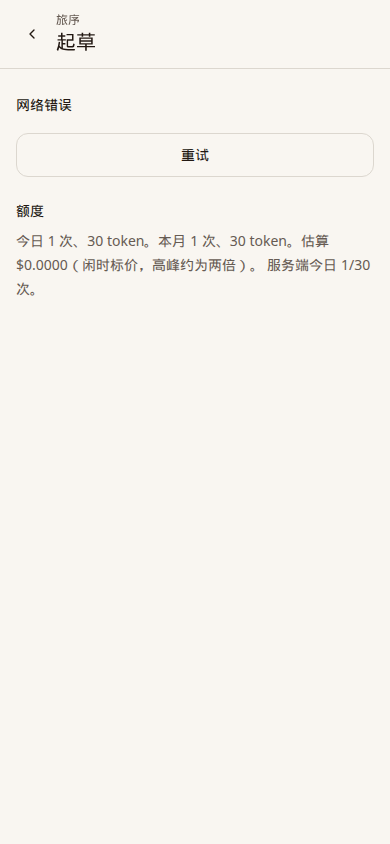
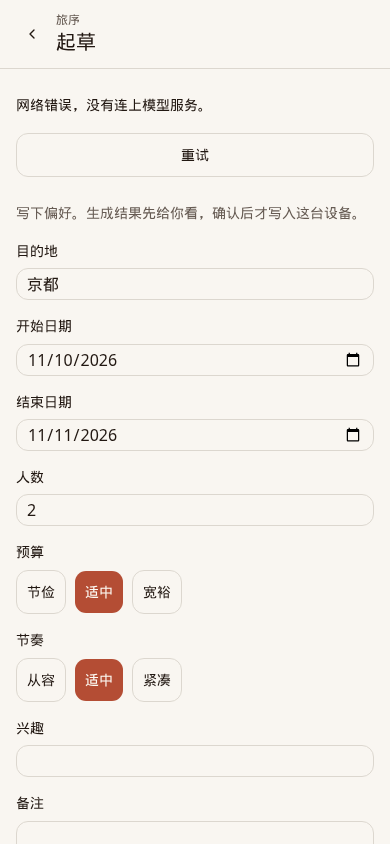
fix: call Worker fetch without an illegal this
DeepSeek requests were invoked as a method and threw before the network.
Bind fetch to the global object, retry transport failures up to three
times, and keep the preference form visible when generation fails.

diff --git a/worker/ai/deepseek.ts b/worker/ai/deepseek.ts
@@ -1,4 +1,5 @@
 import { AI_MODELS, type AiModel } from "../../shared/ai-schema";
+import { redactForLog } from "../redact";
 
 export type TokenUsage = {
   promptTokens: number;
@@ -61,21 +62,35 @@ export function readUsage(value: unknown): TokenUsage {
 
 function mapStatus(status: number): Pick<Extract<Completion, { ok: false }>, "code" | "message" | "retryable"> {
   if (status === 401) {
-    return { code: "upstream_auth", message: "模型服务没有接受密钥", retryable: false };
+    return { code: "upstream_auth", message: "模型服务没有接受密钥。", retryable: false };
   }
   if (status === 402) {
-    return { code: "upstream_balance", message: "模型账户余额不足", retryable: false };
+    return { code: "upstream_balance", message: "模型账户余额不足。", retryable: false };
   }
   if (status === 429) {
-    return { code: "rate_limited", message: "模型服务请求过于频繁", retryable: true };
+    return { code: "rate_limited", message: "请求过于频繁。", retryable: true };
   }
   if (status === 400 || status === 422) {
-    return { code: "upstream_rejected", message: "模型服务拒绝了这次请求", retryable: false };
+    return { code: "upstream_rejected", message: "模型服务拒绝了这次请求。", retryable: false };
   }
   if (status >= 500) {
-    return { code: "upstream_unavailable", message: "模型服务暂时不可用", retryable: true };
+    return { code: "upstream_unavailable", message: "模型服务暂时不可用。", retryable: true };
   }
-  return { code: "upstream_rejected", message: "模型服务拒绝了这次请求", retryable: false };
+  return { code: "upstream_rejected", message: "模型服务拒绝了这次请求。", retryable: false };
+}
+
+function logFetchError(error: unknown) {
+  const name = error instanceof Error ? error.name : "Error";
+  const message = sanitizeSecrets(error instanceof Error ? error.message : "unknown").slice(0, 200);
+  console.log(
+    JSON.stringify(
+      redactForLog({
+        source: "deepseek",
+        errorName: name,
+        errorMessage: message,
+      }),
+    ),
+  );
 }
 
 export async function completeJson(input: {
@@ -89,7 +104,9 @@ export async function completeJson(input: {
   const url = `${input.baseUrl.replace(/\/$/, "")}/chat/completions`;
   let response: Response;
   try {
-    response = await input.fetchImpl(url, {
+    // Workers throw Illegal invocation if fetch is called as a method of another object.
+    const fetchImpl = input.fetchImpl;
+    response = await fetchImpl.call(globalThis, url, {
       method: "POST",
       signal: input.signal,
       headers: {
@@ -100,6 +117,7 @@ export async function completeJson(input: {
         model: input.model,
         messages: input.messages,
         response_format: { type: "json_object" },
+        // Docs: omitting thinking enables reasoning. disabled is the non-thinking mode.
         thinking: { type: "disabled" },
         temperature: 0.4,
         max_tokens: 8192,
@@ -107,13 +125,14 @@ export async function completeJson(input: {
       }),
     });
   } catch (error) {
+    logFetchError(error);
     const aborted = error instanceof Error && error.name === "AbortError";
     return {
       ok: false,
       status: aborted ? 504 : 0,
       retryable: true,
       code: aborted ? "timeout" : "network",
-      message: aborted ? "生成超时" : "网络错误",
+      message: aborted ? "生成超时，模型没有在限定时间内返回。" : "网络错误，没有连上模型服务。",
     };
   }
 
@@ -136,13 +155,17 @@ export async function completeJson(input: {
   }
   const body = payload as {
     model?: unknown;
-    choices?: { message?: { content?: unknown }; finish_reason?: unknown }[];
+    choices?: {
+      message?: { content?: unknown; reasoning_content?: unknown };
+      finish_reason?: unknown;
+    }[];
     usage?: unknown;
   };
-  const content = body.choices?.[0]?.message?.content;
+  const message = body.choices?.[0]?.message;
+  const content = typeof message?.content === "string" ? message.content : "";
   return {
     ok: true,
-    content: typeof content === "string" ? content : "",
+    content,
     finishReason: typeof body.choices?.[0]?.finish_reason === "string"
       ? body.choices[0].finish_reason
       : "",

diff --git a/src/components/plan-screen.tsx b/src/components/plan-screen.tsx
@@ -52,8 +52,8 @@ const failureCopy: Record<AiFailure, string> = {
   invalid_output: "草稿没有通过校验。",
   rate_limited: "请求过于频繁。",
   quota_exceeded: "今日额度已用完。",
-  timeout: "生成超时。",
-  network: "网络错误。",
+  timeout: "生成超时，模型没有在限定时间内返回。",
+  network: "网络错误，没有连上模型服务。",
   upstream_auth: "模型服务没有接受密钥。",
   upstream_balance: "模型账户余额不足。",
   upstream_unavailable: "模型服务暂时不可用。",
@@ -137,6 +137,15 @@ export function PlanScreen({
   onSave: () => void;
 }) {
   const reduce = useReducedMotion();
+  const failure =
+    phase.kind === "form" ||
+    phase.kind === "generating" ||
+    phase.kind === "retrying" ||
+    phase.kind === "preview" ||
+    phase.kind === "saving"
+      ? null
+      : phase;
+  const showForm = phase.kind === "form" || failure !== null;
   const errors = phase.kind === "form" ? phase.errors : {};
   return (
     <motion.div
@@ -145,7 +154,16 @@ export function PlanScreen({
       animate={{ opacity: 1, transform: "translateY(0px)" }}
       transition={{ duration: reduce ? 0 : 0.2, ease: [0.22, 1, 0.36, 1] }}
     >
-      {phase.kind === "form" ? (
+      {failure ? (
+        <div className="flex flex-col gap-4" role="status">
+          <p className="text-sm leading-6">{failureCopy[failure.kind]}</p>
+          <Button type="button" variant="outline" className="h-11" onClick={onRetry}>
+            重试
+          </Button>
+        </div>
+      ) : null}
+
+      {showForm ? (
         <form
           className="flex flex-col gap-4"
           onSubmit={(event) => {
@@ -247,7 +265,7 @@ export function PlanScreen({
             </ul>
           ) : null}
           <p className="text-sm text-muted-foreground">
-            {phase.usage.attempts} 次尝试，{phase.usage.totalTokens} token，估算{" "}
+            尝试 {phase.usage.attempts} 次，共 {phase.usage.totalTokens} 个令牌，按美元估算{" "}
             {formatUsd(estimateUsd(phase.usage))}。
           </p>
           <TripTimeline days={toTimeline({ ...phase.draft, title })} />
@@ -269,19 +287,6 @@ export function PlanScreen({
         <p role="status" className="text-sm">
           正在保存
         </p>
-      ) : null}
-
-      {phase.kind !== "form" &&
-      phase.kind !== "generating" &&
-      phase.kind !== "retrying" &&
-      phase.kind !== "preview" &&
-      phase.kind !== "saving" ? (
-        <div className="flex flex-col gap-4" role="status">
-          <p className="text-sm leading-6">{phase.message || failureCopy[phase.kind]}</p>
-          <Button type="button" variant="outline" className="h-11" onClick={onRetry}>
-            重试
-          </Button>
-        </div>
       ) : null}
     </motion.div>
   );

diff --git a/worker/ai/generate.ts b/worker/ai/generate.ts
@@ -115,7 +115,8 @@ export async function generateItinerary(input: {
   const model = input.model;
   const started = (input.now ?? Date.now)();
   const timeoutMs = input.timeoutMs ?? 25_000;
-  const fetchImpl = input.fetchImpl ?? fetch;
+  const providedFetch = input.fetchImpl ?? fetch;
+  const fetchImpl: typeof fetch = (request, init) => providedFetch.call(globalThis, request, init);
   const sleep = input.sleep ?? ((ms: number) => new Promise((resolve) => setTimeout(resolve, ms)));
   const now = input.now ?? Date.now;
   if (!input.apiKey.trim()) {
@@ -148,7 +149,6 @@ export async function generateItinerary(input: {
   let charged = false;
   let attempts = 0;
   let repairs = 0;
-  let upstreamRetries = 0;
 
   while (attempts < 3) {
     if (now() - started >= timeoutMs) {
@@ -172,25 +172,10 @@ export async function generateItinerary(input: {
       signal,
     });
     if (!completion.ok) {
-      if (completion.code === "network" || completion.code === "timeout") {
-        if (upstreamRetries >= 2 || attempts >= 3) {
-          return {
-            ok: false,
-            error: completion.code,
-            message: completion.message,
-            usage: { ...tokens, model, latencyMs: now() - started, attempts },
-            charged,
-          };
-        }
-        upstreamRetries += 1;
-        await sleep(400 * 2 ** (upstreamRetries - 1));
-        attempts -= 1;
-        continue;
-      }
-      charged = true;
-      if (completion.retryable && upstreamRetries < 2 && attempts < 3) {
-        upstreamRetries += 1;
-        await sleep(400 * 2 ** (upstreamRetries - 1));
+      const reachedUpstream = completion.code !== "network" && completion.code !== "timeout";
+      if (reachedUpstream) charged = true;
+      if (completion.retryable && attempts < 3) {
+        await sleep(400 * 2 ** (attempts - 1));
         continue;
       }
       return {

diff --git a/worker/ai/http.ts b/worker/ai/http.ts
@@ -1,5 +1,6 @@
 import { issueList, preferenceSchema, shanghaiDay } from "../../shared/ai-schema";
-import { isAiModel } from "./deepseek";
+import { isAiModel, sanitizeSecrets } from "./deepseek";
+import { redactForLog } from "../redact";
 import { generateItinerary } from "./generate";
 import { DEFAULT_REQUEST_CAP, DEFAULT_TOKEN_CAP, parseCap } from "./quota";
 
@@ -72,7 +73,7 @@ export function isAiRoute(pathname: string, method: string) {
 export async function handleAiRequest(
   request: Request,
   env: AiEnv,
-  fetchImpl: typeof fetch = fetch,
+  fetchImpl: typeof fetch = (input, init) => fetch(input, init),
 ) {
   const url = new URL(request.url);
   const caps = {
@@ -179,8 +180,11 @@ export async function handleAiRequest(
       );
     }
     return json({ draft: result.draft, usage: result.usage });
-  } catch {
+  } catch (error) {
+    const name = error instanceof Error ? error.name : "Error";
+    const message = sanitizeSecrets(error instanceof Error ? error.message : "unknown").slice(0, 200);
+    console.log(JSON.stringify(redactForLog({ source: "ai", errorName: name, errorMessage: message })));
     await ledger.release({ today });
-    return json({ error: "network", message: "网络错误" }, 502);
+    return json({ error: "network", message: "网络错误，没有连上模型服务。" }, 502);
   }
 }

diff --git a/worker/ai/deepseek.test.ts b/worker/ai/deepseek.test.ts
@@ -64,6 +64,30 @@ describe("DeepSeek 适配器", () => {
     expect(sanitizeSecrets(`failed ${key}`)).toBe("failed [redacted]");
   });
 
+  it("不会把 fetch 当成其他对象的方法来调用", async () => {
+    function strictFetch(this: unknown) {
+      if (this !== undefined && this !== globalThis) {
+        throw new TypeError("Illegal invocation");
+      }
+      return jsonResponse(200, {
+        model: "deepseek-flash",
+        choices: [{ message: { content: "{\"ok\":true}", reasoning_content: "思考" }, finish_reason: "stop" }],
+        usage: { prompt_tokens: 1, completion_tokens: 1, total_tokens: 2, prompt_cache_hit_tokens: 0, prompt_cache_miss_tokens: 1 },
+      });
+    }
+    const result = await completeJson({
+      fetchImpl: strictFetch as unknown as typeof fetch,
+      apiKey: key,
+      baseUrl: "https://api.deepseek.com",
+      model: "deepseek-flash",
+      messages: [{ role: "user", content: "json" }],
+    });
+    expect(result.ok).toBe(true);
+    if (!result.ok) return;
+    expect(result.content).toBe('{"ok":true}');
+    expect(result.content).not.toContain("思考");
+  });
+
   it("429 与 5xx 可以重试，402 不行", async () => {
     const rateLimited = await completeJson({
       fetchImpl: async () => jsonResponse(429, {}),

diff --git a/worker/ai/generate.test.ts b/worker/ai/generate.test.ts
@@ -127,5 +127,30 @@ describe("生成与修复", () => {
     });
     expect(broken).toHaveBeenCalledTimes(3);
     expect(failed).toMatchObject({ ok: false, error: "invalid_output", charged: true });
+    expect(failed.ok ? null : failed.usage.attempts).toBe(3);
+  });
+
+  it("网络错误会退避重试，并记下真实尝试次数", async () => {
+    const sleep = vi.fn(async () => undefined);
+    const fetchImpl = vi.fn(async () => {
+      throw new TypeError("Illegal invocation");
+    });
+    const result = await generateItinerary({
+      preferences: preference,
+      apiKey: "sk-test-secret-value",
+      baseUrl: "https://api.deepseek.com",
+      model: "deepseek-flash",
+      fetchImpl,
+      sleep,
+    });
+    expect(fetchImpl).toHaveBeenCalledTimes(3);
+    expect(sleep).toHaveBeenNthCalledWith(1, 400);
+    expect(sleep).toHaveBeenNthCalledWith(2, 800);
+    expect(result).toMatchObject({
+      ok: false,
+      error: "network",
+      charged: false,
+      usage: { attempts: 3, totalTokens: 0 },
+    });
   });
 });

diff --git a/src/components/plan-screen.test.tsx b/src/components/plan-screen.test.tsx
@@ -101,8 +101,9 @@ describe("起草界面状态", () => {
     expect(screen.getByText("请求过于频繁。")).toBeInTheDocument();
     show({ kind: "quota_exceeded", message: "今日额度已用完。" });
     expect(screen.getByText("今日额度已用完。")).toBeInTheDocument();
-    show({ kind: "network", message: "网络错误。" });
-    expect(screen.getByText("网络错误。")).toBeInTheDocument();
+    show({ kind: "network", message: "网络错误，没有连上模型服务。" });
+    expect(screen.getByText(/没有连上模型服务/)).toBeInTheDocument();
+    expect(screen.getByLabelText("目的地")).toBeInTheDocument();
     show({ kind: "unauthorized", message: "未授权。请先在「我的」里保存并通过私人密钥。" });
     expect(screen.getByText(/未授权/)).toBeInTheDocument();
     show({ kind: "invalid_output", message: "草稿没有通过校验。" });

diff --git a/src/lib/ai-client.ts b/src/lib/ai-client.ts
@@ -53,7 +53,7 @@ export async function requestItinerary(preference: TravelPreference): Promise<It
       body: JSON.stringify(preference),
     });
   } catch {
-    return { ok: false, error: "network", message: "网络错误" };
+    return { ok: false, error: "network", message: "网络错误，没有连上模型服务。" };
   }
   const body = (await response.json().catch(() => null)) as {
     error?: unknown;
@@ -62,7 +62,7 @@ export async function requestItinerary(preference: TravelPreference): Promise<It
     usage?: PricedUsage;
   } | null;
   if (response.status === 401) {
-    return { ok: false, error: "unauthorized", message: "未授权" };
+    return { ok: false, error: "unauthorized", message: "未授权。请先在「我的」里保存并通过私人密钥。" };
   }
   if (!response.ok || !body) {
     const error = asFailure(body?.error);

diff --git a/src/components/usage-stats.tsx b/src/components/usage-stats.tsx
@@ -20,7 +20,7 @@ export function UsageStats() {
       <h2 className="text-sm font-medium">额度</h2>
       <p className="text-sm leading-6 text-muted-foreground">
         {stats
-          ? `今日 ${stats.todayCalls} 次、${stats.todayTokens} token。本月 ${stats.monthCalls} 次、${stats.monthTokens} token。估算 ${formatUsd(stats.monthUsd)}（闲时标价，高峰约为两倍）。`
+          ? `今日 ${stats.todayCalls} 次、${stats.todayTokens} 个令牌。本月 ${stats.monthCalls} 次、${stats.monthTokens} 个令牌。按美元估算 ${formatUsd(stats.monthUsd)}（官方闲时标价，高峰约为两倍）。`
           : "正在读取本机用量。"}
         {remote.data
           ? ` 服务端今日 ${remote.data.today.requests}/${remote.data.caps.dailyRequests} 次。`

diff --git a/e2e/stage07-plan.spec.ts b/e2e/stage07-plan.spec.ts
@@ -173,12 +173,12 @@ test("生成草稿、预览、保存，并截下各种状态", async ({ page }) 
 
   mode = "abort";
   await page.getByRole("button", { name: "重试" }).click();
-  await expect(page.getByText("网络错误")).toBeVisible();
+  await expect(page.getByText("没有连上模型服务")).toBeVisible();
   await page.screenshot({ path: `${directory}/network-error.png` });
 
   mode = "unauthorized";
   await page.getByRole("button", { name: "重试" }).click();
-  await expect(page.getByText("未授权", { exact: true })).toBeVisible();
+  await expect(page.getByText("请先在「我的」里保存并通过私人密钥")).toBeVisible();
   await page.screenshot({ path: `${directory}/unauthorized.png` });
 
   mode = "retry-delay";

diff --git a/src/pages/profile-page.tsx b/src/pages/profile-page.tsx
@@ -89,7 +89,7 @@ export function ProfilePage() {
           <h2 className="text-sm font-medium">关于</h2>
           <p className="text-sm leading-6 text-muted-foreground">
             旅序 AI
-            Travel。行程仍在这台设备上。云端目前只提供同一源站的接口门禁，生成和地图还没有接入。
+            Travel。行程仍在这台设备上。可以在行程页生成多日草稿。地图还没有接入。
           </p>
         </div>
       </section>
